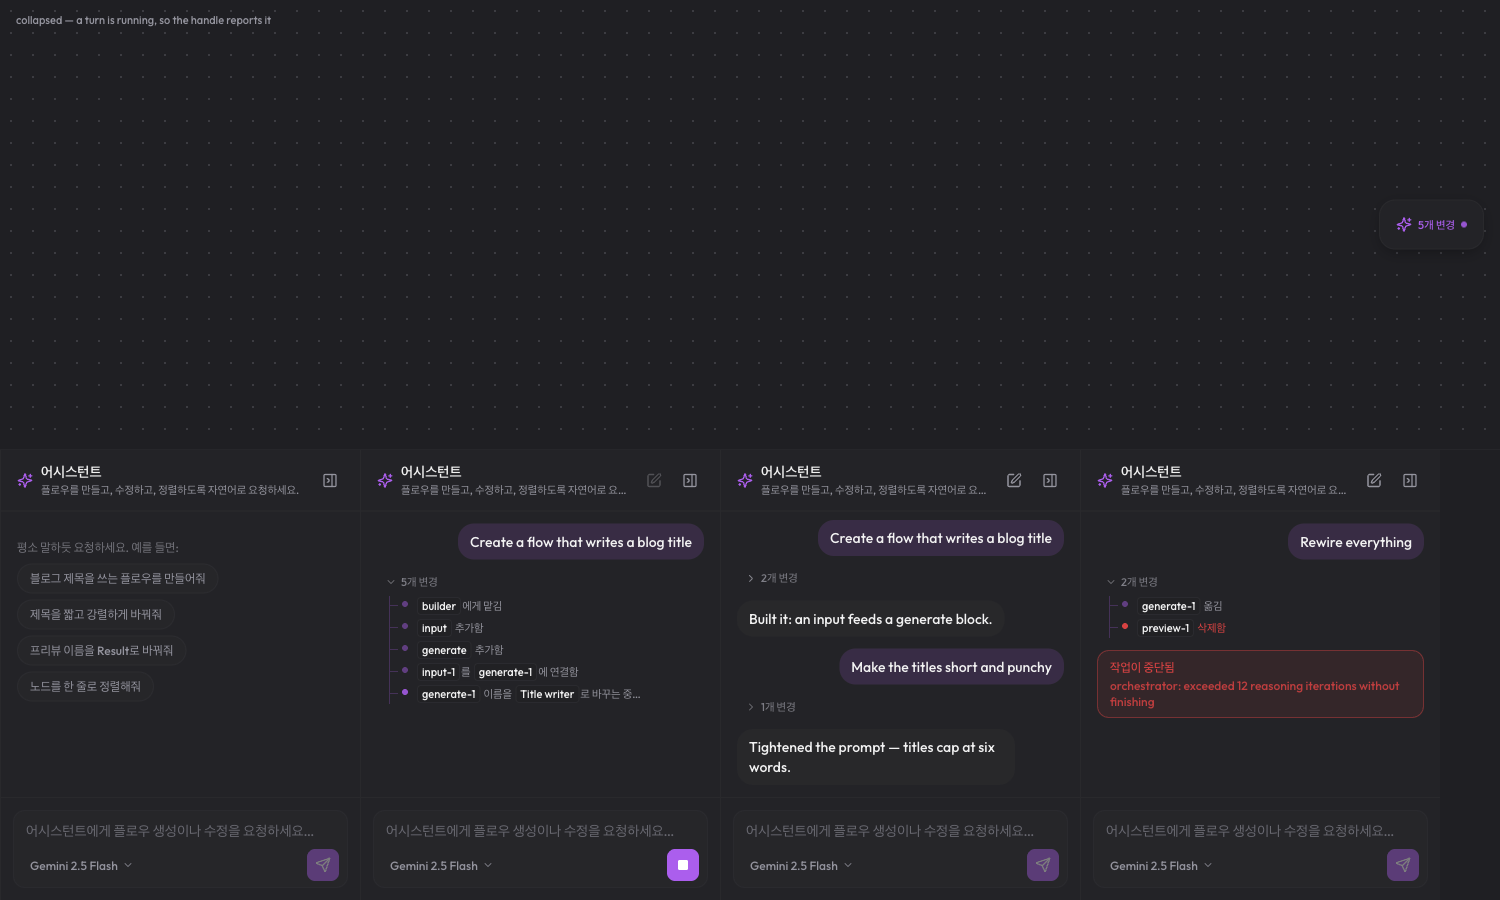
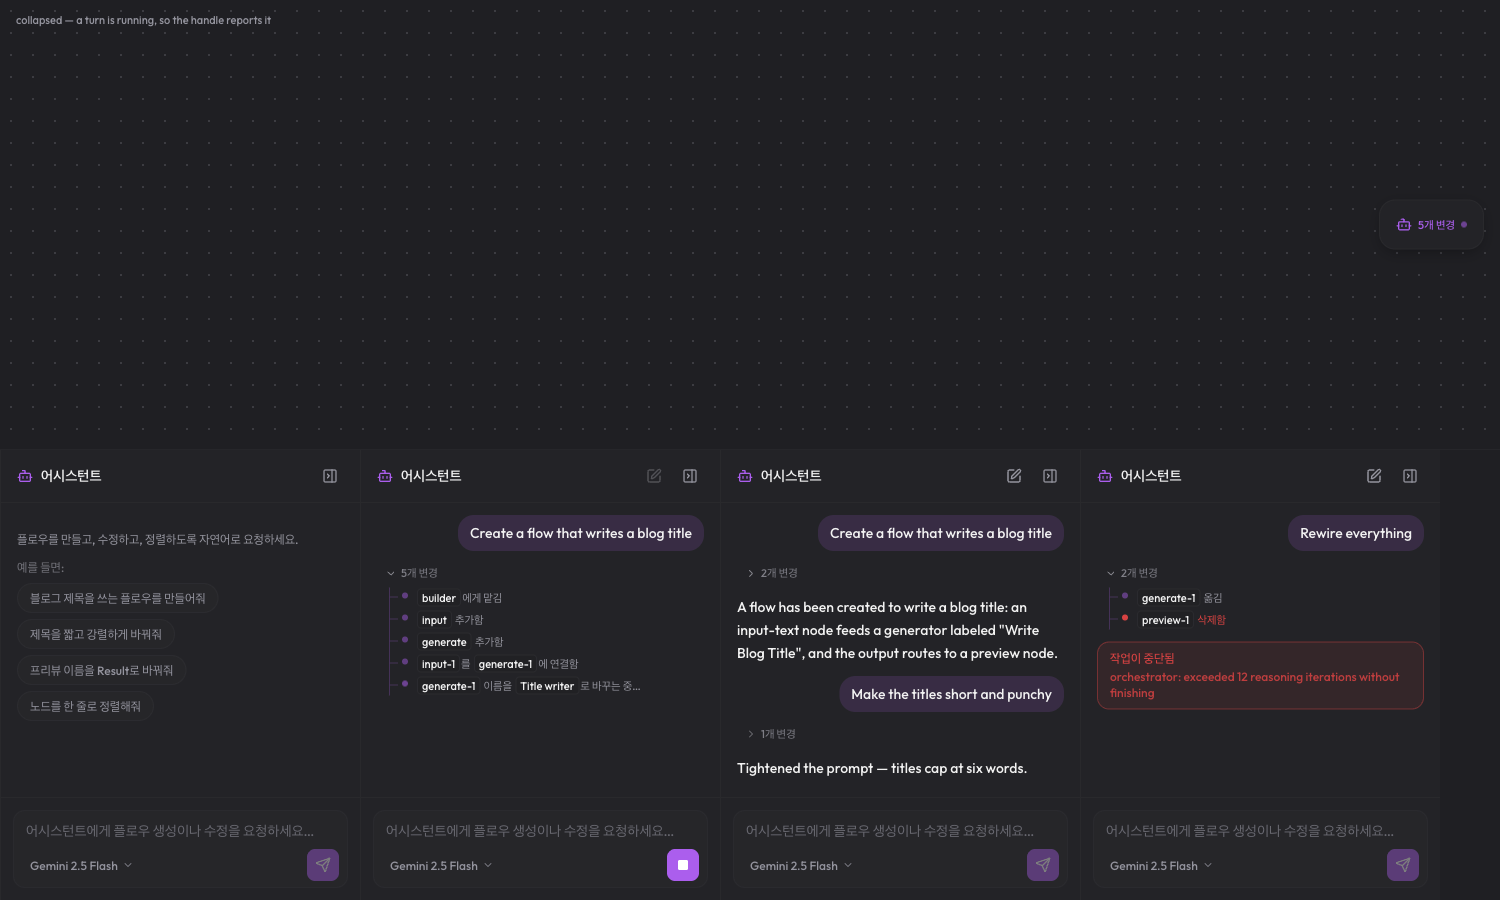
feat(web): make the assistant panel resizable and its replies readable
Four things the panel screenshot made obvious.

**Width is the user's.** 360px was fixed, and a long reply at that width is a
column of scraps while the canvas has room to spare. The left border is now a
drag handle — 320–640px, persisted, keyboard-adjustable with the arrow keys
from a `role="separator"`. The clamp is a pure function beside the transcript
rules, because jsdom reports zero for every layout box and a drag asserted
through a rendered panel would pass whatever the code did.

**The reply is prose, not a bubble.** The user's ask stays in a bubble — it is
short and it is theirs. The assistant's answer is the long half of the
exchange, and a grey bubble at panel width reads as a wall. Capped at 30rem so
widening the panel gives room to the ledger and the canvas rather than
stretching the line past what the eye can track.

**The header stops repeating itself.** The subtitle truncated at every width,
which is the tell that it was pinned in the wrong place. It moves to the empty
state, which has room for it and is where a first-time user is looking anyway.

**The assistant gets its own icon.** Sparkles is this app's credit glyph
(`BillingChip`, `CreditDetails`, `ModelSelect` — all fill-amber-400), so the
panel and its handle were spending the currency icon on a different meaning.
Both now use `Bot`.

Screenshots refreshed to match.

diff --git a/apps/web/src/app/features/flows/components/AgentPanel.tsx b/apps/web/src/app/features/flows/components/AgentPanel.tsx
@@ -1,13 +1,19 @@
 import { useEffect, useMemo, useRef, useState } from 'react';
 import { useTranslation } from 'react-i18next';
 
-import { ChevronDown, PanelRightClose, Send, Sparkles, Square, SquarePen } from 'lucide-react';
+import { Bot, ChevronDown, PanelRightClose, Send, Square, SquarePen } from 'lucide-react';
 
 import { cn } from '@flows/lib/utils';
 import { Popover, PopoverContent, PopoverTrigger } from '@flows/ui-kit';
 
 import { AgentTurnLedger } from './AgentTurnLedger';
-import { buildTranscript, isFollowingTail } from '../utils/agentTurnLedger';
+import {
+    PANEL_MAX_WIDTH,
+    PANEL_MIN_WIDTH,
+    buildTranscript,
+    clampPanelWidth,
+    isFollowingTail,
+} from '../utils/agentTurnLedger';
 
 import type { SessionState } from '@flows/agent';
 
@@ -34,6 +40,10 @@ interface AgentPanelProps {
     onClose?: () => void;
     /** Forget the transcript and start over. Omitted ⇒ no such control. */
     onNewChat?: () => void;
+    /** Panel width in px. The container owns it so a drag survives re-render and persists. */
+    width: number;
+    /** Report a dragged width. Omitted ⇒ the panel is not resizable. */
+    onWidthChange?: (width: number) => void;
 }
 
 /**
@@ -117,6 +127,8 @@ export const AgentPanel = ({
     onAbort,
     onClose,
     onNewChat,
+    width,
+    onWidthChange,
 }: AgentPanelProps) => {
     const { t } = useTranslation(['flows']);
     const [draft, setDraft] = useState('');
@@ -182,6 +194,34 @@ export const AgentPanel = ({
         onSend(text);
     };
 
+    // Dragging the left border toward the canvas widens the panel, so the delta is inverted.
+    const startResize = (e: React.PointerEvent<HTMLDivElement>) => {
+        if (!onWidthChange) {
+            return;
+        }
+        e.preventDefault();
+        const startX = e.clientX;
+        const startWidth = width;
+        const target = e.currentTarget;
+        target.setPointerCapture(e.pointerId);
+        const move = (ev: PointerEvent) => onWidthChange(clampPanelWidth(startWidth + (startX - ev.clientX)));
+        const stop = () => {
+            target.releasePointerCapture(e.pointerId);
+            target.removeEventListener('pointermove', move);
+            target.removeEventListener('pointerup', stop);
+        };
+        target.addEventListener('pointermove', move);
+        target.addEventListener('pointerup', stop);
+    };
+
+    const resizeKeys = (e: React.KeyboardEvent<HTMLDivElement>) => {
+        if (!onWidthChange || (e.key !== 'ArrowLeft' && e.key !== 'ArrowRight')) {
+            return;
+        }
+        e.preventDefault();
+        onWidthChange(clampPanelWidth(width + (e.key === 'ArrowLeft' ? 16 : -16)));
+    };
+
     const onKeyDown = (e: React.KeyboardEvent<HTMLTextAreaElement>) => {
         // Ignore Enter while an IME candidate is composing (Korean/Japanese/Chinese) —
         // that Enter confirms the candidate, it must not send the message.
@@ -194,17 +234,32 @@ export const AgentPanel = ({
     return (
         <aside
             aria-label={t('agentPanel.title', 'Assistant')}
-            className="relative z-30 flex h-full w-[360px] shrink-0 flex-col overflow-hidden border-l border-border/40 bg-glass-bg backdrop-blur-2xl"
+            style={{ width }}
+            className="relative z-30 flex h-full shrink-0 flex-col overflow-hidden border-l border-border/40 bg-glass-bg backdrop-blur-2xl"
         >
+            {onWidthChange && (
+                <div
+                    role="separator"
+                    aria-orientation="vertical"
+                    aria-label={t('agentPanel.resize', 'Resize the assistant')}
+                    aria-valuenow={width}
+                    aria-valuemin={PANEL_MIN_WIDTH}
+                    aria-valuemax={PANEL_MAX_WIDTH}
+                    tabIndex={0}
+                    onPointerDown={startResize}
+                    onKeyDown={resizeKeys}
+                    className={cn(
+                        'absolute inset-y-0 left-0 z-10 w-1.5 -translate-x-1/2 cursor-col-resize',
+                        'transition-colors hover:bg-primary/30 focus-visible:bg-primary/40 focus-visible:outline-none'
+                    )}
+                />
+            )}
             {/* Header */}
             <div className="flex items-center gap-2 border-b border-border/40 px-4 py-3">
-                <Sparkles className="h-4 w-4 shrink-0 text-primary" />
-                <div className="flex min-w-0 flex-1 flex-col">
-                    <span className="text-sm font-semibold text-foreground">{t('agentPanel.title', 'Assistant')}</span>
-                    <span className="truncate text-[11px] text-muted-foreground">
-                        {t('agentPanel.subtitle', 'Ask in plain language to build, edit, and arrange your flow.')}
-                    </span>
-                </div>
+                <Bot className="h-4 w-4 shrink-0 text-primary" />
+                <span className="min-w-0 flex-1 truncate text-sm font-semibold text-foreground">
+                    {t('agentPanel.title', 'Assistant')}
+                </span>
                 {onNewChat && items.length > 0 && (
                     <button
                         type="button"
@@ -247,9 +302,10 @@ export const AgentPanel = ({
             >
                 {items.length === 0 ? (
                     <div className="space-y-2 pt-4">
-                        <p className="text-xs text-muted-foreground/70">
-                            {t('agentPanel.empty', 'Ask in plain language. For example:')}
+                        <p className="text-xs text-muted-foreground">
+                            {t('agentPanel.subtitle', 'Ask in plain language to build, edit, and arrange your flow.')}
                         </p>
+                        <p className="pt-1 text-xs text-muted-foreground/70">{t('agentPanel.empty', 'For example:')}</p>
                         <div className="flex flex-col items-start gap-1.5">
                             {SUGGESTION_KEYS.map(key => {
                                 const text = t(`agentPanel.suggestions.${key}`, SUGGESTION_DEFAULTS[key]);
@@ -282,10 +338,13 @@ export const AgentPanel = ({
                             >
                                 <div
                                     className={cn(
-                                        'max-w-[85%] whitespace-pre-wrap rounded-2xl px-3 py-2 text-sm',
+                                        'whitespace-pre-wrap text-sm text-foreground',
                                         item.message.role === 'user'
-                                            ? 'bg-primary/15 text-foreground'
-                                            : 'bg-muted/40 text-foreground'
+                                            ? 'max-w-[85%] rounded-2xl bg-primary/15 px-3 py-2'
+                                            : // Prose, not a bubble: the reply is the long half of the exchange, and a
+                                              // bubble at panel width reads as a wall. Capped so widening the panel
+                                              // gives the ledger and the canvas room, not a longer line to track.
+                                              'max-w-[30rem] leading-relaxed'
                                     )}
                                 >
                                     {item.message.content}

diff --git a/apps/web/src/app/features/flows/components/FlowAgentPanel.tsx b/apps/web/src/app/features/flows/components/FlowAgentPanel.tsx
@@ -24,6 +24,7 @@ import {
     createGenerateApiLlmGateway,
     resolveBrowserAgentModelConfig,
 } from '../utils';
+import { PANEL_DEFAULT_WIDTH, clampPanelWidth } from '../utils/agentTurnLedger';
 
 import type { FlowEngine } from '@flows/engine';
 import type { FlowPermissions } from '@flows/flows';
@@ -50,12 +51,29 @@ interface FlowAgentPanelProps {
 /** Whether the editor opens with the assistant showing. Persisted so it stays where the user left it;
  *  a storage failure (private mode, quota) just means the default, never a crash. */
 const PANEL_OPEN_KEY = 'flow-agent-panel-open';
+const PANEL_WIDTH_KEY = 'flow-agent-panel-width';
 
 const readPanelOpen = (): boolean => {
     try {
         return localStorage.getItem(PANEL_OPEN_KEY) !== 'false';
     } catch {
         return true;
+    }
+};
+
+const readPanelWidth = (): number => {
+    try {
+        return clampPanelWidth(Number(localStorage.getItem(PANEL_WIDTH_KEY) ?? PANEL_DEFAULT_WIDTH));
+    } catch {
+        return PANEL_DEFAULT_WIDTH;
+    }
+};
+
+const writePanelWidth = (width: number): void => {
+    try {
+        localStorage.setItem(PANEL_WIDTH_KEY, String(width));
+    } catch {
+        // Same as the open flag: the drag still works, it just forgets across reloads.
     }
 };
 
@@ -149,6 +167,11 @@ export const FlowAgentPanel = ({ engine, flowId, permissions }: FlowAgentPanelPr
     // Kept here, not in FlowEditorPage: `useAgent` lives in this component and unmounting it aborts the
     // turn in flight (`useAgentSession`), so collapsing has to hide the panel without dropping the agent.
     const [open, setOpen] = useState(() => readPanelOpen());
+    const [width, setWidth] = useState(() => readPanelWidth());
+    const setWidthPersisted = useCallback((next: number) => {
+        setWidth(next);
+        writePanelWidth(next);
+    }, []);
     const setOpenPersisted = useCallback((next: boolean) => {
         setOpen(next);
         writePanelOpen(next);
@@ -168,6 +191,8 @@ export const FlowAgentPanel = ({ engine, flowId, permissions }: FlowAgentPanelPr
             onAbort={abort}
             onClose={() => setOpenPersisted(false)}
             onNewChat={reset}
+            width={width}
+            onWidthChange={setWidthPersisted}
         />
     );
 };

diff --git a/apps/web/src/app/features/flows/components/AgentPanel.spec.tsx b/apps/web/src/app/features/flows/components/AgentPanel.spec.tsx
@@ -39,11 +39,16 @@ const session = (messages: Message[], phase: SessionState['phase']): SessionStat
 const renderPanel = (
     state: SessionState | null,
     onSend = vi.fn(),
-    extra: { onAbort?: () => void; onClose?: () => void; onNewChat?: () => void } = {}
+    extra: {
+        onAbort?: () => void;
+        onClose?: () => void;
+        onNewChat?: () => void;
+        onWidthChange?: (width: number) => void;
+    } = {}
 ) =>
     render(
         <I18nextProvider i18n={i18n}>
-            <AgentPanel session={state} onSend={onSend} {...extra} />
+            <AgentPanel session={state} onSend={onSend} width={360} {...extra} />
         </I18nextProvider>
     );
 
@@ -265,6 +270,27 @@ describe('AgentPanel', () => {
         expect((button as HTMLButtonElement).disabled).toBe(true);
         fireEvent.click(button);
         expect(onNewChat).not.toHaveBeenCalled();
+    });
+
+    it('can be dragged wider, and says how wide it is', () => {
+        const onWidthChange = vi.fn();
+        renderPanel(null, vi.fn(), { onWidthChange });
+
+        const grip = screen.getByRole('separator', { name: 'Resize the assistant' });
+        expect(grip.getAttribute('aria-valuenow')).toBe('360');
+        expect(grip.getAttribute('aria-valuemin')).toBe('320');
+        expect(grip.getAttribute('aria-valuemax')).toBe('640');
+
+        // Toward the canvas is wider; the panel is on the right, so the keys are mirrored too.
+        fireEvent.keyDown(grip, { key: 'ArrowLeft' });
+        expect(onWidthChange).toHaveBeenLastCalledWith(376);
+        fireEvent.keyDown(grip, { key: 'ArrowRight' });
+        expect(onWidthChange).toHaveBeenLastCalledWith(344);
+    });
+
+    it('has no grip when the container does not own a width to change', () => {
+        renderPanel(null);
+        expect(screen.queryByRole('separator')).toBeNull();
     });
 
     it('says a turn stopped, and why', () => {

diff --git a/apps/web/src/app/features/flows/utils/agentTurnLedger.spec.ts b/apps/web/src/app/features/flows/utils/agentTurnLedger.spec.ts
@@ -1,6 +1,13 @@
 import { describe, expect, it } from 'vitest';
 
-import { buildTranscript, isFollowingTail } from './agentTurnLedger';
+import {
+    PANEL_DEFAULT_WIDTH,
+    PANEL_MAX_WIDTH,
+    PANEL_MIN_WIDTH,
+    buildTranscript,
+    clampPanelWidth,
+    isFollowingTail,
+} from './agentTurnLedger';
 
 import type { LedgerOp, TranscriptItem } from './agentTurnLedger';
 import type { Message, SessionState } from '@flows/agent';
@@ -188,5 +195,24 @@ describe('isFollowingTail', () => {
     it('lets go once the reader has scrolled back', () => {
         expect(isFollowingTail(at(400))).toBe(false);
         expect(isFollowingTail(at(0))).toBe(false);
+    });
+});
+
+describe('clampPanelWidth', () => {
+    it('keeps a width the user actually dragged to', () => {
+        expect(clampPanelWidth(420)).toBe(420);
+    });
+
+    it('holds the ends rather than letting the panel swallow or vanish', () => {
+        expect(clampPanelWidth(80)).toBe(PANEL_MIN_WIDTH);
+        expect(clampPanelWidth(4000)).toBe(PANEL_MAX_WIDTH);
+    });
+
+    it('rounds to whole pixels — a fractional width blurs the border it is dragged by', () => {
+        expect(clampPanelWidth(420.6)).toBe(421);
+    });
+
+    it('falls back to the default for a value that is not a width', () => {
+        expect(clampPanelWidth(Number.NaN)).toBe(PANEL_DEFAULT_WIDTH);
     });
 });

diff --git a/apps/web/src/app/features/flows/utils/agentTurnLedger.ts b/apps/web/src/app/features/flows/utils/agentTurnLedger.ts
@@ -164,3 +164,17 @@ const STICK_THRESHOLD_PX = 48;
  */
 export const isFollowingTail = (el: Pick<HTMLElement, 'scrollTop' | 'scrollHeight' | 'clientHeight'>): boolean =>
     el.scrollHeight - el.scrollTop - el.clientHeight <= STICK_THRESHOLD_PX;
+
+/** What the assistant panel may be dragged to. Narrow enough to keep the canvas usable, wide enough
+ *  that a long reply and a deep ledger both fit without the transcript turning into a column of scraps. */
+export const PANEL_MIN_WIDTH = 320;
+export const PANEL_MAX_WIDTH = 640;
+export const PANEL_DEFAULT_WIDTH = 360;
+
+/** Clamps a dragged or restored width into the allowed range; anything unusable falls back to the default. */
+export const clampPanelWidth = (raw: number): number => {
+    if (!Number.isFinite(raw)) {
+        return PANEL_DEFAULT_WIDTH;
+    }
+    return Math.min(PANEL_MAX_WIDTH, Math.max(PANEL_MIN_WIDTH, Math.round(raw)));
+};

diff --git a/apps/web/src/app/features/flows/components/AgentLauncher.tsx b/apps/web/src/app/features/flows/components/AgentLauncher.tsx
@@ -1,6 +1,6 @@
 import { useTranslation } from 'react-i18next';
 
-import { Sparkles } from 'lucide-react';
+import { Bot } from 'lucide-react';
 
 import { cn } from '@flows/lib/utils';
 
@@ -44,7 +44,7 @@ export const AgentLauncher = ({ session, onOpen }: { session: SessionState | nul
                         running ? 'w-auto px-2 text-primary' : 'w-8'
                     )}
                 >
-                    <Sparkles className="h-4 w-4 shrink-0" />
+                    <Bot className="h-4 w-4 shrink-0" />
                     {running && (
                         <>
                             <span className="text-[11px] font-medium tabular-nums">
